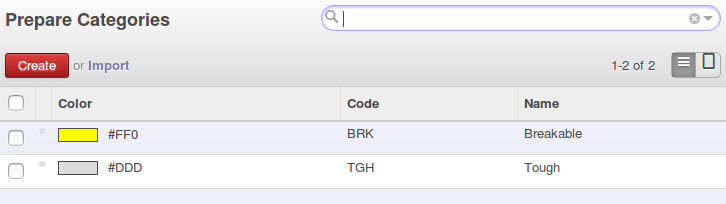
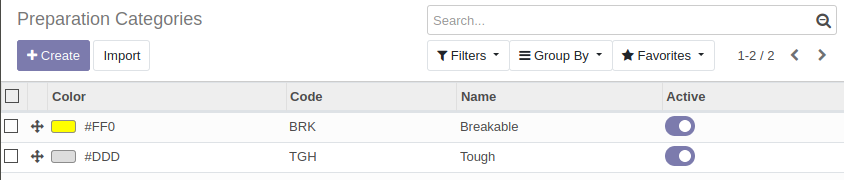
[MIG] stock_preparation_category: Migration to 12.0

diff --git a/stock_preparation_category/models/stock_preparation_category.py b/stock_preparation_category/models/stock_preparation_category.py
@@ -1,39 +1,51 @@
-# coding: utf-8
 # Copyright (C) 2014 - Today: GRAP (http://www.grap.coop)
 # @author: Sylvain LE GAL (https://twitter.com/legalsylvain)
 # License AGPL-3.0 or later (http://www.gnu.org/licenses/agpl.html).
 
-from openerp import api, fields, models
+from odoo import api, fields, models
 
 
 class StockPreparationCategory(models.Model):
     _name = "stock.preparation.category"
+    _description = "Preparation Categories"
     _order = "sequence, name"
-
-    # Default Section
-    @api.model
-    def _default_company_id(self):
-        return self.env.user.company_id.id
 
     # Column Section
     name = fields.Char(string="Name", required=True)
 
     sequence = fields.Integer(string="Sequence", required=True)
 
-    code = fields.Char(string="Code", required=True, size=5)
+    code = fields.Char(string="Code", required=True,
+        help="This field will be used on the picking reports")
 
     color = fields.Char(string="Color", required=True, default="#FFFFFF")
 
     company_id = fields.Many2one(
         comodel_name="res.company",
         string="Company",
-        default=_default_company_id,
+        default=lambda x: x._default_company_id(),
     )
 
     active = fields.Boolean(string="Active", default=True)
 
     product_ids = fields.One2many(
         comodel_name="product.product",
-        inverse_name="prepare_categ_id",
+        inverse_name="preparation_categ_id",
         string="Products",
     )
+
+    product_qty = fields.Integer(
+        compute="_compute_product_qty",
+        string="Product Quantity"
+    )
+
+    # Default Section
+    @api.model
+    def _default_company_id(self):
+        return self.env.user.company_id.id
+
+    # Compute Section
+    @api.depends("product_ids.preparation_categ_id")
+    def _compute_product_qty(self):
+        for category in self:
+            category.product_qty = len(category.product_ids)

diff --git a/stock_preparation_category/__manifest__.py b/stock_preparation_category/__manifest__.py
@@ -1,31 +1,37 @@
-# coding: utf-8
 # Copyright (C) 2014 - Today: GRAP (http://www.grap.coop)
 # @author: Sylvain LE GAL (https://twitter.com/legalsylvain)
 # License AGPL-3.0 or later (http://www.gnu.org/licenses/agpl.html).
 
 {
     "name": "Stock - Preparation Categories",
-    "version": "8.0.1.0.0",
+    "version": "12.0.1.0.0",
     "summary": "Manage Preparation Categories for stock moves",
     "category": "Stock",
     "author": "GRAP",
     "website": "http://www.grap.coop",
     "license": "AGPL-3",
-    "depends": ["stock", "web_widget_color",],
+    "depends": ["stock"],
     "data": [
         "security/ir_rule.xml",
         "security/ir_module_category.xml",
         "security/res_groups.xml",
         "security/ir.model.access.csv",
-        "views/view_stock_preparation_category.xml",
         "views/view_product_product.xml",
+        "views/view_product_template.xml",
+        "views/view_stock_preparation_category.xml",
         "views/view_stock_move.xml",
+        "views/view_stock_picking.xml",
+        "reports/report_stock_picking.xml",
     ],
     "demo": [
-        # 'demo/product_product.xml',
         "demo/stock_preparation_category.xml",
+        "demo/product_product.xml",
+        "demo/stock_picking.xml",
         "demo/res_groups.xml",
     ],
-    "images": ["static/description/stock_preparation_category_tree.png",],
-    "installable": False,
+    "images": [
+        "static/description/stock_preparation_category_tree.png",
+        "static/description/product_template_form.png",
+    ],
+    "installable": True,
 }

diff --git a/stock_preparation_category/models/product_template.py b/stock_preparation_category/models/product_template.py
@@ -1,14 +1,16 @@
-# Copyright (C) 2015 - Today: GRAP (http://www.grap.coop)
+# Copyright (C) 2019 - Today: GRAP (http://www.grap.coop)
 # @author: Sylvain LE GAL (https://twitter.com/legalsylvain)
 # License AGPL-3.0 or later (http://www.gnu.org/licenses/agpl.html).
 
 from odoo import fields, models
 
 
-class ProductProduct(models.Model):
-    _inherit = "product.product"
+class ProductTemplate(models.Model):
+    _inherit = "product.template"
 
     preparation_categ_id = fields.Many2one(
         comodel_name="stock.preparation.category",
         string="Preparation Category",
+        related="product_variant_ids.preparation_categ_id",
+        readonly=False,
     )

diff --git a/stock_preparation_category/models/stock_move.py b/stock_preparation_category/models/stock_move.py
@@ -1,16 +1,15 @@
-# coding: utf-8
 # Copyright (C) 2015 - Today: GRAP (http://www.grap.coop)
 # @author: Sylvain LE GAL (https://twitter.com/legalsylvain)
 # License AGPL-3.0 or later (http://www.gnu.org/licenses/agpl.html).
 
-from openerp import api, fields, models
+from odoo import fields, models
 
 
 class StockMove(models.Model):
     _inherit = "stock.move"
 
     # Column Section
-    prepare_categ_id = fields.Many2one(
+    preparation_categ_id = fields.Many2one(
         related="product_id.preparation_categ_id",
         comodel_name="stock.preparation.category",
         store=True,

diff --git a/stock_preparation_category/models/__init__.py b/stock_preparation_category/models/__init__.py
@@ -1,11 +1,4 @@
-from . import procurement_group
-from . import product_prepare_category
+from . import stock_preparation_category
 from . import product_product
-from . import res_company
-from . import sale_order
-from . import sale_recovery_moment
-from . import sale_recovery_moment_group
-from . import sale_recovery_moment_group_wizard_duplicate
-from . import sale_recovery_place
+from . import product_template
 from . import stock_move
-from . import stock_picking

diff --git a/stock_preparation_category/__init__.py b/stock_preparation_category/__init__.py
@@ -1,3 +1,1 @@
-# coding: utf-8
-
 from . import models

diff --git a/stock_preparation_category/readme/CONFIGURE.rst b/stock_preparation_category/readme/CONFIGURE.rst
@@ -1,26 +1,8 @@
-* A ``sale.recovery.place`` is a place where the customer can recover his
-  order.
+* go to "Inventory" / "Configuration" / "Preparation Categories"
+  and create your categories
 
-.. figure:: ../static/description/sale_recovery_place_tree.png
+.. figure:: ../static/description/stock_preparation_category_tree.png
 
-Note:
+* Then open a product and configure your products
 
-If you set a shipping product on your recovery place, it will be added to
-the sale order, when confirming it.
-
-* A ``sale.recovery.moment`` is a moment during the customers have the
-  possibility to recover their sales; A recovery moment is described by a min
-  date and a max date for the recovery and a place where the sale orders is
-  available.
-
-.. figure:: ../static/description/sale_recovery_moment_calendar.png
-
-* A ``sale.recovery.moment.group`` is a group of Recovery Moments with a
-  start date and a end date of sale.
-
-.. figure:: ../static/description/sale_recovery_moment_group_form.png
-
-
-* A ``product.prepare.category``  is a new category of product
-
-.. figure:: ../static/description/sale_prepare_category_tree.png
+.. figure:: ../static/description/product_template_form.png

diff --git a/stock_preparation_category/readme/DESCRIPTION.rst b/stock_preparation_category/readme/DESCRIPTION.rst
@@ -1,2 +1,5 @@
-This module extends the functionality of sale module to provide extra models
-to handle sales with organized by the saler in a calendar.
+This module extends the functionality of stock module to provide an
+extra concept "Preparation Categories", on the product models. (template and variants)
+
+There categories are usefull for the preparators of the pickings to identify
+the products that are robust, fragile, etc.

diff --git a/stock_preparation_category/readme/USAGE.rst b/stock_preparation_category/readme/USAGE.rst
@@ -1,2 +1,8 @@
-The picking created can be reordered by Prepare Categories if you install
-the extra OCA module mass_sorting.
+The preparation categories are available on the picking form view:
+
+.. figure:: ../static/description/stock_picking_form.png
+
+
+They are also available on the picking qweb reports:
+
+.. figure:: ../static/description/stock_picking_report.png

diff --git a/stock_preparation_category/readme/INSTALL.rst b/stock_preparation_category/readme/INSTALL.rst
@@ -1,0 +1,6 @@
+* Install the extra OCA ``web`` module ``web_widget_color`` to have a widget to select
+  more easily the color of preparation categories.
+
+* Install the extra OCA ``server-ux`` module ``mass_sorting`` to have the possibility
+  to reorder the moves of your pickings, independently of the order of the sale
+  or purchase order lines. 
